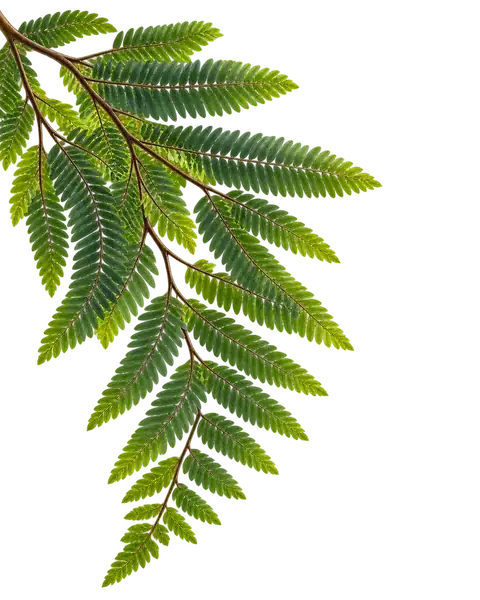
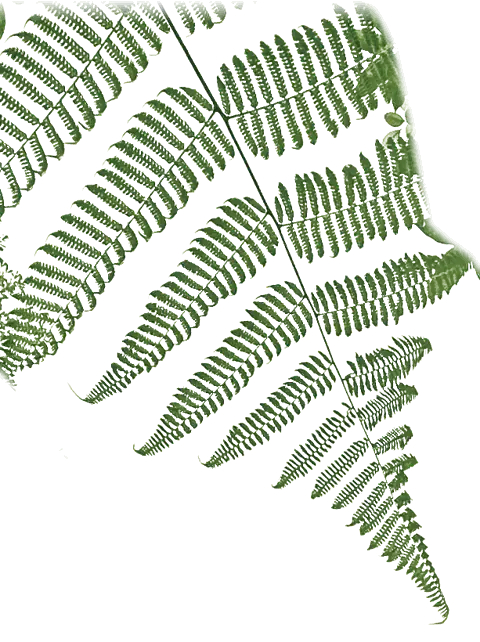
Give the seals room and hang the jacaranda from my photo
The Whig-Clio seals now lie on a paper that runs across the table, with
the comparison large and the words in two columns beneath it; the line
sweeps across once when the seals first come into view. Labels on the
other papers sit above their text, so no corner is left empty. The
jacaranda is cut from my photo of the café's skylight.

diff --git a/index.html b/index.html
@@ -23,7 +23,7 @@
     <div class="ct-grain"></div>
   </div>
   <div class="canopy" aria-hidden="true">
-    <div class="bough bough-jacaranda"><img src="assets/canopy-jacaranda.webp" alt="" width="480" height="600" decoding="async"></div>
+    <div class="bough bough-jacaranda"><img src="assets/canopy-jacaranda.webp" alt="" width="480" height="642" decoding="async"></div>
     <div class="bough bough-bougainvillea"><img src="assets/canopy-bougainvillea.webp" alt="" width="900" height="600" decoding="async"></div>
   </div>
   <div class="cafe-ceiling">
@@ -153,46 +153,46 @@
             <h2 class="desk-title" id="graphics-title">Graphics made for communities</h2>
           </div>
         </div>
-        <div class="desk-cols">
-          <div class="desk-col desk-col--main">
-            <article class="pp pp--folio" style="--tilt: .4deg" aria-labelledby="seals-title">
-              <span class="pp-cast" aria-hidden="true"><span></span></span>
-              <span class="pp-contact" aria-hidden="true"><span></span></span>
-              <span class="pp-back" aria-hidden="true"><span></span></span>
-              <span class="pp-lift" aria-hidden="true"><span></span></span>
-              <span class="pp-surface" aria-hidden="true"><span class="sky-pane"><span class="sky-room"><span class="fleck fleck-soft"></span><span class="fleck fleck-a"></span><span class="fleck fleck-b"></span><span class="fleck fleck-c"></span></span><span class="pool"></span></span><span class="pp-grain"></span><span class="pp-skin"></span></span>
-              <div class="pp-content">
-                <figure class="compare pp-media pp-live" style="--cut: 50%">
-                  <div class="compare-seals">
-                    <div class="seal-cmp">
-                      <img class="cmp-after" src="assets/clio-restored.webp" alt="The restored Clio seal: a seated woman holding an open book, inside circular lettering." width="1000" height="1000" loading="lazy">
-                      <img class="cmp-before" src="assets/seal-clio-before.webp" alt="The Clio seal as I was given it: soft, with the lettering and the figure's details blurred." width="480" height="480" loading="lazy">
-                      <span class="cmp-line" aria-hidden="true"></span>
-                    </div>
-                    <div class="seal-cmp">
-                      <img class="cmp-after" src="assets/whig-eagle-restored.webp" alt="The restored Whig seal: a bird with spread wings and ribbons, inside circular lettering." width="999" height="1000" loading="lazy">
-                      <img class="cmp-before" src="assets/seal-whig-before.webp" alt="The Whig seal as I was given it: soft, with the ribbon lettering almost lost." width="480" height="480" loading="lazy">
-                      <span class="cmp-line" aria-hidden="true"></span>
-                    </div>
+        <div class="desk-feature">
+          <article class="pp pp--folio pp--feature" style="--tilt: .4deg" aria-labelledby="seals-title">
+            <span class="pp-cast" aria-hidden="true"><span></span></span>
+            <span class="pp-contact" aria-hidden="true"><span></span></span>
+            <span class="pp-back" aria-hidden="true"><span></span></span>
+            <span class="pp-lift" aria-hidden="true"><span></span></span>
+            <span class="pp-surface" aria-hidden="true"><span class="sky-pane"><span class="sky-room"><span class="fleck fleck-soft"></span><span class="fleck fleck-a"></span><span class="fleck fleck-b"></span><span class="fleck fleck-c"></span></span><span class="pool"></span></span><span class="pp-grain"></span><span class="pp-skin"></span></span>
+            <div class="pp-content">
+              <figure class="compare pp-media pp-live" style="--cut: 50%">
+                <div class="compare-seals">
+                  <div class="seal-cmp">
+                    <img class="cmp-after" src="assets/clio-restored.webp" alt="The restored Clio seal: a seated woman holding an open book, inside circular lettering." width="1000" height="1000" loading="lazy">
+                    <img class="cmp-before" src="assets/seal-clio-before.webp" alt="The Clio seal as I was given it: soft, with the lettering and the figure's details blurred." width="480" height="480" loading="lazy">
+                    <span class="cmp-line" aria-hidden="true"></span>
                   </div>
-                  <input class="cmp-range" type="range" min="0" max="100" value="50" aria-label="Compare the seals as I was given them with my restorations">
-                  <figcaption><span>As I was given them</span><span class="cmp-hint">Drag across a seal to compare</span><span>Restored</span></figcaption>
-                </figure>
-                <div class="pp-split">
-                  <div>
-                    <p class="kicker">Whig–Clio</p>
-                    <p class="meta">Historical research, restoration, and vector graphics</p>
-                  </div>
-                  <div>
-                    <h3 id="seals-title"><a class="pp-link" href="#seals-story" data-story="seals-story">Recovering the detail in Whig–Clio’s seals</a></h3>
-                    <p>Repeated compression had worn the available images down until parts of the designs were lost. I researched older records to understand the original features, restored the missing detail, and rebuilt both seals in vector form for official university use.</p>
-                    <p class="pp-more" aria-hidden="true">✳ The source and the restoration</p>
+                  <div class="seal-cmp">
+                    <img class="cmp-after" src="assets/whig-eagle-restored.webp" alt="The restored Whig seal: a bird with spread wings and ribbons, inside circular lettering." width="999" height="1000" loading="lazy">
+                    <img class="cmp-before" src="assets/seal-whig-before.webp" alt="The Whig seal as I was given it: soft, with the ribbon lettering almost lost." width="480" height="480" loading="lazy">
+                    <span class="cmp-line" aria-hidden="true"></span>
                   </div>
                 </div>
+                <input class="cmp-range" type="range" min="0" max="100" value="50" aria-label="Compare the seals as I was given them with my restorations">
+                <figcaption><span>As I was given them</span><span class="cmp-hint">Drag across a seal to compare</span><span>Restored</span></figcaption>
+              </figure>
+              <div class="pp-words">
+                <div>
+                  <p class="kicker">Whig–Clio</p>
+                  <p class="meta">Historical research, restoration, and vector graphics</p>
+                  <h3 id="seals-title"><a class="pp-link" href="#seals-story" data-story="seals-story">Recovering the detail in Whig–Clio’s seals</a></h3>
+                </div>
+                <div>
+                  <p>Repeated compression had worn the available images down until parts of the designs were lost. I researched older records to understand the original features, restored the missing detail, and rebuilt both seals in vector form for official university use.</p>
+                  <p class="pp-more" aria-hidden="true">✳ The source and the restoration</p>
+                </div>
               </div>
-            </article>
-          </div>
-          <div class="desk-col desk-col--side desk-col--low">
+            </div>
+          </article>
+        </div>
+        <div class="desk-cols">
+          <div class="desk-col desk-col--main">
             <article class="pp pp--folio" style="--tilt: -.6deg" aria-labelledby="jacket-title">
               <span class="pp-cast" aria-hidden="true"><span></span></span>
               <span class="pp-contact" aria-hidden="true"><span></span></span>
@@ -218,29 +218,25 @@
               </div>
             </article>
           </div>
-        </div>
-        <div class="desk-across">
-          <article class="pp pp--card pp--across" style="--tilt: -1.1deg" aria-labelledby="apparel-title">
-            <span class="pp-cast" aria-hidden="true"><span></span></span>
-            <span class="pp-contact" aria-hidden="true"><span></span></span>
-            <span class="pp-surface" aria-hidden="true"><span class="sky-pane"><span class="sky-room"><span class="fleck fleck-soft"></span><span class="fleck fleck-a"></span><span class="fleck fleck-b"></span><span class="fleck fleck-c"></span></span><span class="pool"></span></span><span class="pp-grain"></span><span class="pp-skin"></span></span>
-            <div class="pp-content">
-              <div class="pp-across">
+          <div class="desk-col desk-col--side desk-col--low">
+            <article class="pp pp--card" style="--tilt: -1.1deg" aria-labelledby="apparel-title">
+              <span class="pp-cast" aria-hidden="true"><span></span></span>
+              <span class="pp-contact" aria-hidden="true"><span></span></span>
+              <span class="pp-surface" aria-hidden="true"><span class="sky-pane"><span class="sky-room"><span class="fleck fleck-soft"></span><span class="fleck fleck-a"></span><span class="fleck fleck-b"></span><span class="fleck fleck-c"></span></span><span class="pool"></span></span><span class="pp-grain"></span><span class="pp-skin"></span></span>
+              <div class="pp-content">
                 <div class="pp-pair">
                   <img src="assets/scully-cranes.webp" alt="The Scully co-op artwork: pink origami cranes and lettering." width="1100" height="1100" loading="lazy">
                   <img src="assets/scully-printed.webp" alt="The crane design printed across a dark sweatshirt." width="990" height="1000" loading="lazy">
                 </div>
-                <div>
-                  <p class="kicker">Scully co-op, Molecular Biology, and the Class of 1976</p>
-                  <p class="meta">Shirt, reunion, and patch graphics</p>
-                  <h3 id="apparel-title"><a class="pp-link" href="#apparel-story" data-story="apparel-story">From artwork to apparel</a></h3>
-                  <p>During COVID quarantine, I made a shirt concept for COS. Seeing it give our scattered community something to be excited about, I kept making designs for other majors anonymously, until someone reached out to commission the official Molecular Biology Class of 2021 shirt.</p>
-                  <p>For Scully, the co-op I called home, the cranes come from the paper ones that members from previous years left hanging in our shared space.</p>
-                  <p class="pp-more" aria-hidden="true">✳ The shirts and their stories</p>
-                </div>
+                <p class="kicker">Scully co-op, Molecular Biology, and the Class of 1976</p>
+                <p class="meta">Shirt, reunion, and patch graphics</p>
+                <h3 id="apparel-title"><a class="pp-link" href="#apparel-story" data-story="apparel-story">From artwork to apparel</a></h3>
+                <p>During COVID quarantine, I made a shirt concept for COS. Seeing it give our scattered community something to be excited about, I kept making designs for other majors anonymously, until someone reached out to commission the official Molecular Biology Class of 2021 shirt.</p>
+                <p>For Scully, the co-op I called home, the cranes come from the paper ones that members from previous years left hanging in our shared space.</p>
+                <p class="pp-more" aria-hidden="true">✳ The shirts and their stories</p>
               </div>
-            </div>
-          </article>
+            </article>
+          </div>
         </div>
       </section>
 
@@ -529,7 +525,7 @@
         <summary>A note on the design</summary>
         <p>The page is a corner of The Leaf Café in Đà Nẵng, drawn from my own photographs: a dark ceiling with small downlights, a plaster wall, a table under jacaranda and bougainvillea, and a serving counter at the bottom. My work lies on the table as separate papers, some folded like pamphlets, spread out the way you would to look through them. <a href="https://thecupscoffee.vn/the-leaf-cafe/">See the café.</a></p>
         <p>The light follows your clock, from dawn through golden hour to night, and the slider lets you move through the day yourself. The lamp on the wall is a trombone slide turned into a light; pull its cord. The drinks on the counter can be sipped, and the espresso machine pulls a shot. The Eye candy switch stops the moving branches and light.</p>
-        <p>Bricolage Grotesque sets almost everything, and I chose it partly for its story: its designer, Mathieu Triay, connects its mixed influences to migration and belonging. Fraunces brings a more reflective voice to a few moments. The branches and the leaf shapes in the light come from AI-generated paintings; they are decoration, not my artwork. <a href="colophon.html">How this site is built.</a></p>
+        <p>Bricolage Grotesque sets almost everything, and I chose it partly for its story: its designer, Mathieu Triay, connects its mixed influences to migration and belonging. Fraunces brings a more reflective voice to a few moments. The jacaranda is cut from my own photo of the café’s skylight; the bougainvillea and the leaf shapes in the light come from AI-generated paintings, so those are decoration, not my artwork. <a href="colophon.html">How this site is built.</a></p>
       </details>
       <details class="design-note personal-note">
         <summary>Beyond this collection</summary>

diff --git a/colophon.html b/colophon.html
@@ -24,7 +24,7 @@
     <section id="materials">
       <h2>A corner of a café</h2>
       <p>The Leaf Café in Đà Nẵng is the reference: warm plaster, dark wood, greenery, and small tile details. I borrowed its atmosphere without using my photographs of it as decoration, and my artwork keeps its own colors.</p>
-      <p>The homepage is laid out like a corner of the café. A dark ceiling with small downlights holds the navigation, my name sits on the plaster wall, the work lies on a table under the trees, and my contact details are on the serving counter at the bottom. Each project is its own paper, some folded like pamphlets, spread out loosely the way you’d lay work on a table to look through it. Click a paper to read its story. The paper is textured after giấy dó, the Vietnamese paper made from the inner bark of the dó tree and formed on a bamboo screen: fine bark fibres, the screen’s faint lines, and the odd fleck of bark. Jacaranda and bougainvillea hang over the table; I chose them for their connection to Đà Nẵng and my Vietnamese heritage. They are stylized, and they step aside on small screens so the work has room.</p>
+      <p>The homepage is laid out like a corner of the café. A dark ceiling with small downlights holds the navigation, my name sits on the plaster wall, the work lies on a table under the trees, and my contact details are on the serving counter at the bottom. Each project is its own paper, some folded like pamphlets, spread out loosely the way you’d lay work on a table to look through it. Click a paper to read its story. The paper is textured after giấy dó, the Vietnamese paper made from the inner bark of the dó tree and formed on a bamboo screen: fine bark fibres, the screen’s faint lines, and the odd fleck of bark. Jacaranda and bougainvillea hang over the table; I chose them for their connection to Đà Nẵng and my Vietnamese heritage. The jacaranda is cut from my own photo of the café’s skylight and the bougainvillea comes from a painting; both step aside on small screens so the work has room.</p>
       <p>The wall lamp is a trombone slide turned into a light, drawn after one at the café; pull its cord to switch it. On the counter there is an espresso machine you can pull a shot from, an iced matcha latte like the one I ordered there, egg coffee kept warm in a bowl of hot water, and chè sương sa hạt lựu with pandan jelly and red water-chestnut pieces. Each drink can be sipped and refilled. The counter ends in a lift-up flap and a gate that swings. If you stay a few minutes, the coffee stops steaming and the matcha glass fogs up.</p>
       <h3>Useful before the first click</h3>
       <p>The introduction says what I do and how to reach me, and each piece of work says what I made before you open anything. Longer stories, process, and personal interests are one click deeper for anyone who wants them.</p>
@@ -55,7 +55,7 @@
       <p>The Whig–Clio project restores existing identity artwork through historical research and vector reconstruction; it does not claim the original seals as my designs. The apparel graphics and Class of 2023 jacket design are mine. The jacket photograph is by Denise Applewhite, Princeton University Office of Communications, with a source link in its story. The Scully photograph documents the finished print.</p>
       <p>The hotpot illustration and the visual artwork, animation, and compositing in <em>Bloom</em> are mine. The hotpot scene depicts characters from Zenless Zone Zero. The film excerpt is silent and makes no claim of soundtrack authorship. The wave-board study includes an identified reference to Hokusai’s <em>The Great Wave off Kanagawa</em>.</p>
       <p>The game prototype uses third-party sprites and environment assets. That case study presents my system design, direction of AI-assisted development, and testing process, rather than claiming the game’s visual assets as my artwork.</p>
-      <p>I set the direction, chose the references, and reviewed every change; I built the site with AI assistance for code and writing. The branches over the table and the leaf shapes in the sunlight come from AI-generated paintings, and the wood grain, paper texture, and light patterns are generated in code. They are decoration, not my artwork.</p>
+      <p>I set the direction, chose the references, and reviewed every change; I built the site with AI assistance for code and writing. The jacaranda over the table is cut from my own photo looking up through the café’s skylight. The bougainvillea and the leaf shapes in the sunlight come from AI-generated paintings, and the wood grain, paper texture, and light patterns are generated in code. They are decoration, not my artwork.</p>
       <p>My artwork and writing on this site are mine, with all rights reserved. Please ask me before reusing them; the <a href="https://github.com/mhtran3/mhtran3.github.io/blob/main/LICENSE">license</a> has the details.</p>
       <p><a href="https://github.com/mhtran3/mhtran3.github.io">Browse the source</a> · <a href="https://thecupscoffee.vn/the-leaf-cafe/">The Leaf Café</a></p>
     </section>

diff --git a/cafe.css b/cafe.css
@@ -96,8 +96,8 @@
 .desk-col--main > .pp + .pp { width: 95%; justify-self: end; }
 .desk-col--side > .pp--folio { margin-left: -4px; }
 .desk-col > .pp--slip { justify-self: start; margin-left: 18px; }
-.desk-across { display: grid; grid-template-columns: repeat(12, minmax(0, 1fr)); column-gap: clamp(20px, 3vw, 40px); margin-top: clamp(30px, 4.5vw, 56px); }
-.desk-across > .pp { grid-column: 3 / span 8; }
+/* A feature paper runs across the table, ahead of the columns. */
+.desk-feature { margin: 0 clamp(0px, 2vw, 24px) clamp(30px, 4.5vw, 56px) 0; }
 
 /* ——— One paper ——— */
 .pp { position: relative; isolation: isolate; color: var(--ink); --clip: inset(0); --lift: 1; }
@@ -180,11 +180,12 @@
 .pp .pp-dek { font: 500 19px/1.36 var(--reflection); font-optical-sizing: auto; }
 .pp-roles { margin-top: 16px !important; display: grid; grid-template-columns: 1fr 1fr; gap: 8px 22px; }
 .pp .pp-more { margin: 14px 0 0; font-size: 15px; color: var(--accent); }
-.pp-split { display: grid; grid-template-columns: minmax(0, 11rem) minmax(0, 1fr); gap: 24px; }
-.pp-split h3 { margin-top: 0; }
-/* In the narrower column, the label sits above the words instead of beside them. */
-.desk-col--side .pp-split { display: block; }
-.desk-col--side .pp-split h3 { margin-top: 14px; }
+/* The label sits above the words, so no corner of a paper is left empty. */
+.pp-split h3 { margin-top: 14px; }
+.pp--feature .compare { margin-bottom: clamp(22px, 3vw, 34px); padding-inline: clamp(0px, 4vw, 56px); }
+.pp--feature .compare-seals { gap: clamp(24px, 7vw, 88px); }
+.pp-words { display: grid; grid-template-columns: minmax(0, 1fr) minmax(0, 1.3fr); gap: 12px clamp(24px, 4vw, 48px); align-items: start; }
+.pp-words h3 { margin-bottom: 0; }
 /* The whole paper opens its story; pictures and players sit above that, so they still work. */
 .pp-link { text-decoration: none; }
 .pp-link::after { content: ''; position: absolute; inset: 0; z-index: 2; }
@@ -200,8 +201,6 @@
 .pp-media figcaption { margin-top: 8px; font-size: 13px; line-height: 1.5; color: var(--muted); }
 .pp-still { position: relative; display: block; }
 .pp-pair { display: grid; grid-template-columns: 1fr 1fr; gap: 12px; align-items: center; margin-bottom: 18px; }
-.pp-across { display: grid; grid-template-columns: minmax(0, 13rem) minmax(0, 1fr); gap: 26px; align-items: start; }
-.pp-across .pp-pair { grid-template-columns: 1fr; margin: 4px 0 0; }
 .pp-pair img { width: 100%; height: auto; border-radius: 1px; box-shadow: 0 0 0 1px rgb(40 28 16 / .16); }
 .play { position: absolute; left: 50%; top: 50%; width: 52px; height: 52px; translate: -50% -50%; border-radius: 50%; background: rgb(18 12 6 / .5); box-shadow: 0 0 0 1.5px rgb(255 248 234 / .85); }
 .play::after { content: ''; position: absolute; left: 20px; top: 16px; width: 16px; height: 20px; background: #fff8ea; clip-path: polygon(0 0, 100% 50%, 0 100%); }
@@ -491,28 +490,24 @@
 @media (max-width: 900px) {
   .lighting-control input[type="range"] { width: 120px; }
 }
-@media (max-width: 1100px) {
-  .pp-split { display: block; }
-  .pp-split h3 { margin-top: 14px; }
-}
 @media (max-width: 860px) {
   /* One paper after another, turned less (home.js); still a little uneven. */
-  .desk-cols, .desk-across { display: block; margin: 0; }
+  .desk-cols { display: block; margin: 0; }
+  .desk-feature { margin: 0; }
   .desk-col { display: contents; }
-  .desk-cols .pp, .desk-across .pp { margin: clamp(24px, 5vw, 34px) 0 0; width: auto; }
+  .desk-cols .pp { margin: clamp(24px, 5vw, 34px) 0 0; width: auto; }
+  .desk-feature + .desk-cols > .desk-col:first-child > .pp:first-child { margin-top: clamp(24px, 5vw, 34px); }
   .desk-col > .pp--note, .desk-col > .pp--slip { width: fit-content; max-width: 100%; margin-left: 12px; }
   .desk-col:first-child > .pp:first-child { margin-top: 0; }
   .pp-roles { grid-template-columns: 1fr; }
-  .pp-split { display: block; }
-  .pp-split h3 { margin-top: 14px; }
 }
 @media (max-width: 720px) {
   .desk { padding-block: 28px 44px; }
+  .pp-words { display: block; }
+  .pp-words h3 { margin-bottom: 12px; }
 }
 @media (max-width: 560px) {
   /* Phones: stack the seals. */
-  .pp-across { display: block; }
-  .pp-across .pp-pair { grid-template-columns: 1fr 1fr; margin-bottom: 18px; }
   .compare-seals { grid-template-columns: minmax(0, 340px); justify-content: center; gap: 28px; }
   .compare figcaption { flex-wrap: wrap; justify-content: space-between; max-width: 340px; margin-inline: auto; }
   .compare-ready .cmp-hint { order: 3; flex-basis: 100%; }

diff --git a/home.js b/home.js
@@ -168,6 +168,31 @@ document.querySelectorAll('.compare').forEach(compare => {
   });
   compare.classList.add('compare-ready');
   set(+range.value);
+  // The first time the seals come into view, the line sweeps across once to show what it does; not
+  // with reduced motion or Eye candy off, and never once the reader has touched it.
+  let touched = false;
+  ['pointerdown', 'keydown', 'focusin'].forEach(type => compare.addEventListener(type, () => { touched = true; }));
+  const calm = () => window.matchMedia('(prefers-reduced-motion: reduce)').matches || document.documentElement.classList.contains('still');
+  if (!('IntersectionObserver' in window)) return;
+  const seen = new IntersectionObserver(([entry]) => {
+    if (!entry.isIntersecting) return;
+    seen.disconnect();
+    if (touched || calm()) return;
+    const keys = [[0, 50], [.32, 16], [.72, 84], [1, 50]], length = 2600;
+    let start = null;
+    const step = now => {
+      if (touched) return;
+      start ??= now;
+      const t = Math.min(1, (now - start) / length);
+      const i = keys.findIndex(([at]) => at >= t) || 1;
+      const [t0, v0] = keys[i - 1], [t1, v1] = keys[i];
+      const f = (1 - Math.cos(Math.PI * (t - t0) / (t1 - t0))) / 2;   // ease in and out of each stop
+      set(v0 + (v1 - v0) * f);
+      if (t < 1) requestAnimationFrame(step);
+    };
+    setTimeout(() => requestAnimationFrame(step), 350);
+  }, { threshold: .6 });
+  seen.observe(compare.querySelector('.compare-seals'));
 });
 // Papers on the table: each turns by its --tilt. Its outline is a clip-path polygon sized to the
 // paper (recomputed when it resizes, never on scroll), so the light inside stays fixed to the room

diff --git a/scripts/check-site.py b/scripts/check-site.py
@@ -67,7 +67,7 @@ def main():
         elif parsed.fragment and target in pages and unquote(parsed.fragment) not in pages[target].ids:
             errors.append(f'{origin.name}: missing fragment: {ref}')
     budgets = [
-        ('homepage_js', ['home.js', 'lighting.js', 'cafe.js'], 32 * 1024),
+        ('homepage_js', ['home.js', 'lighting.js', 'cafe.js'], 36 * 1024),
         ('stylesheets', ['home.css', 'gallery.css', 'cafe.css'], 69 * 1024),
         ('bricolage_fonts', ['assets/fonts/bricolage-grotesque-latin.woff2', 'assets/fonts/bricolage-grotesque-latin-ext.woff2', 'assets/fonts/bricolage-grotesque-vietnamese.woff2'], 128 * 1024),
         ('reflection_fonts', ['assets/fonts/fraunces/fraunces-medium-latin.woff2', 'assets/fonts/fraunces/fraunces-medium-latin-ext.woff2', 'assets/fonts/fraunces/fraunces-medium-vietnamese.woff2'], 80 * 1024),

diff --git a/README.md b/README.md
@@ -21,7 +21,7 @@ It's plain HTML, CSS and JavaScript with no build step. To preview it, serve the
 - Fonts: [Bricolage Grotesque](https://ateliertriay.github.io/bricolage/) by Mathieu Triay, and [Fraunces](https://fraunces.undercase.xyz/) by Phaedra Charles and Flavia Zimbardi, both under the SIL Open Font License (see `assets/fonts/`).
 - Class of 2023 jacket photo: Denise Applewhite, Princeton University Office of Communications.
 - The game footage uses third-party sprites and environment art. The hotpot illustration depicts characters from Zenless Zone Zero.
-- The branches over the table and the leaf shapes in the sunlight come from AI-generated paintings, and the wood grain, paper texture and light patterns are generated in code. They're decoration, not my artwork. I built the site with AI assistance for code and writing.
+- The jacaranda over the table is cut from my own photo of the café's skylight. The bougainvillea and the leaf shapes in the sunlight come from AI-generated paintings, and the wood grain, paper texture and light patterns are generated in code. They're decoration, not my artwork. I built the site with AI assistance for code and writing.
 
 ## License
 
